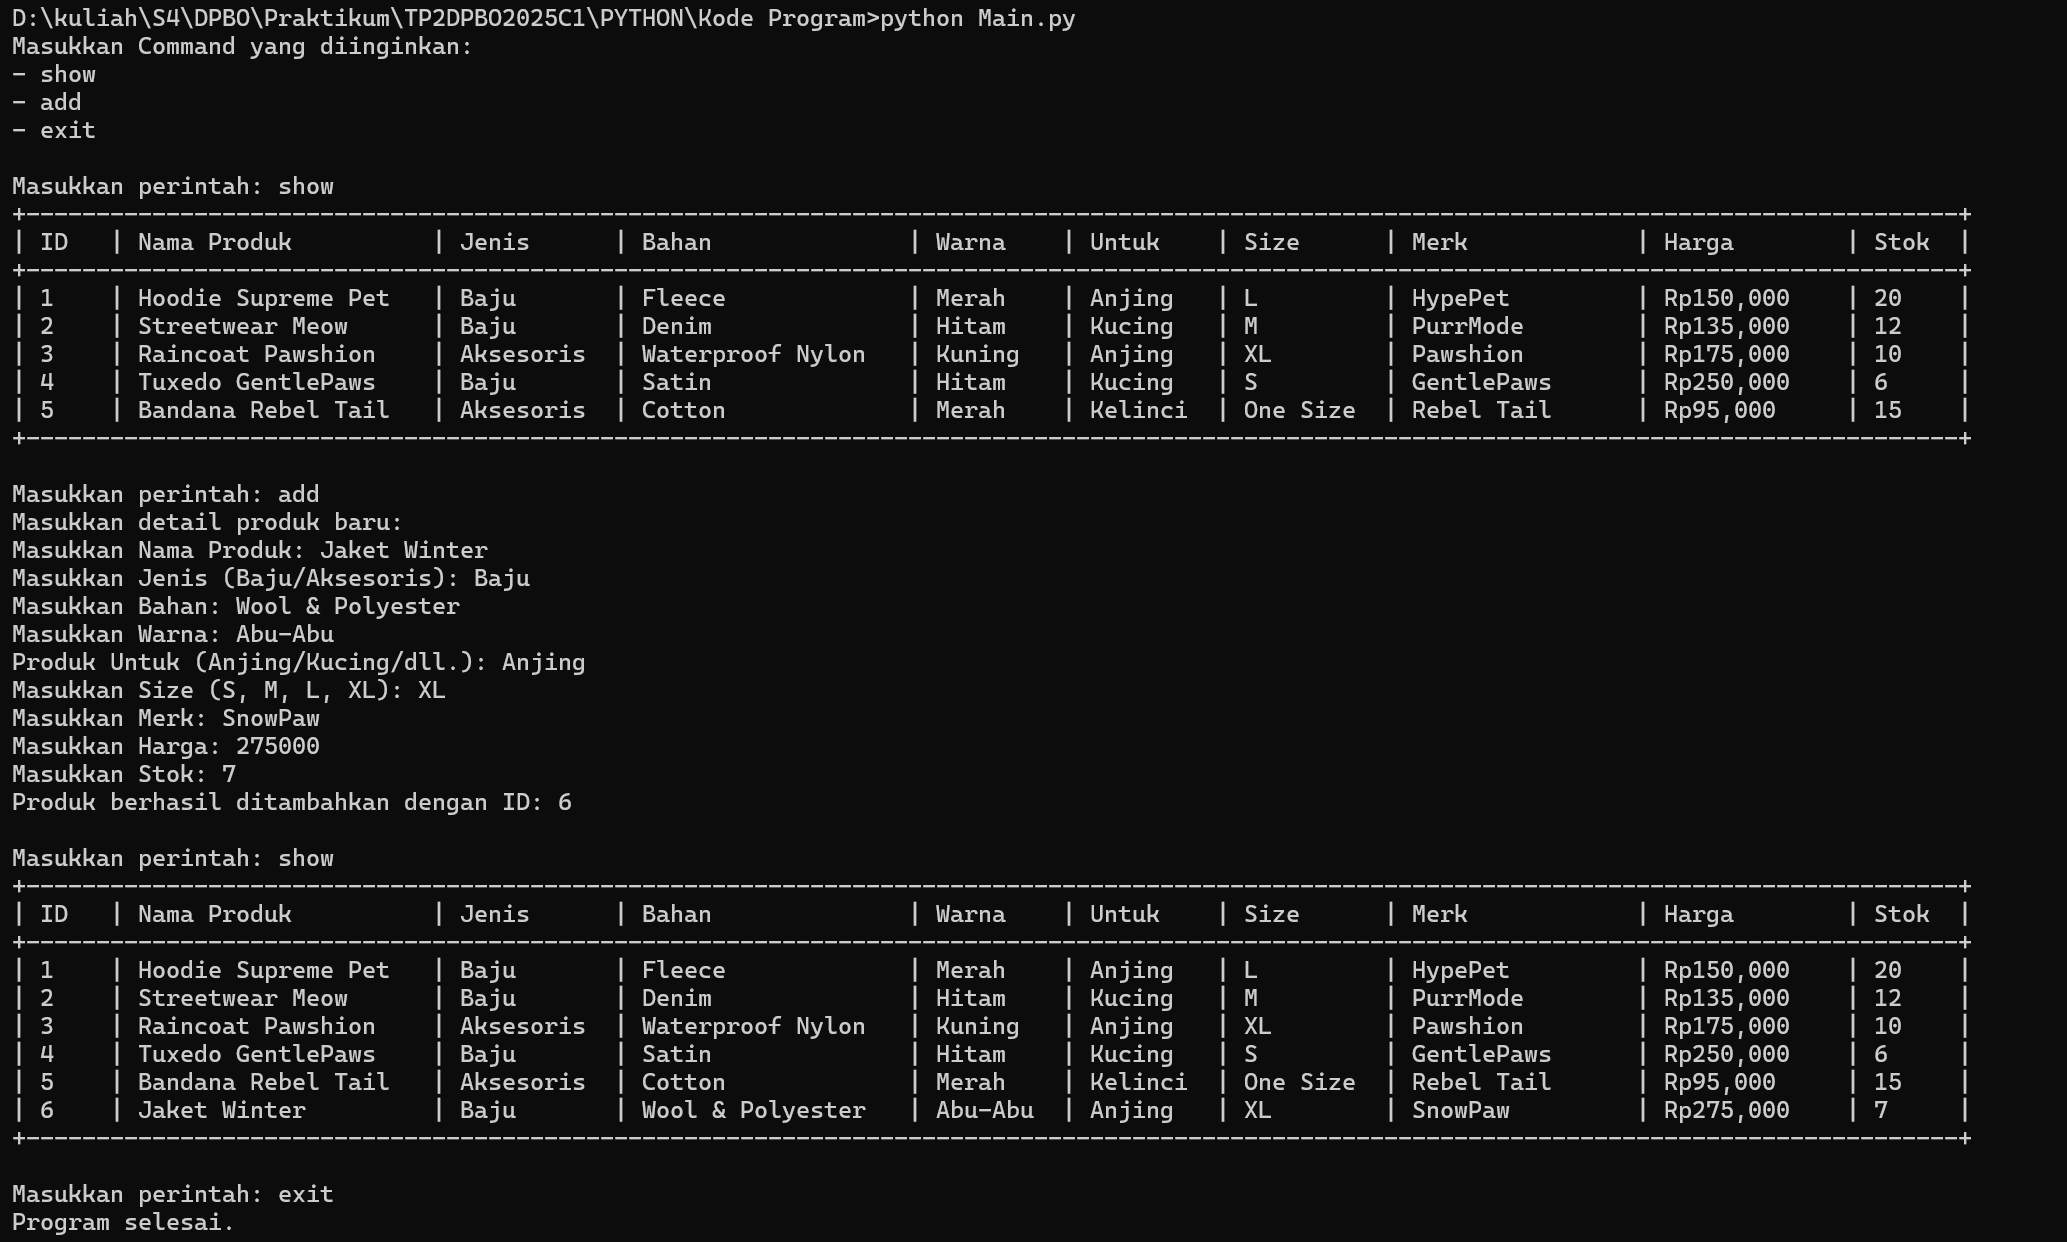
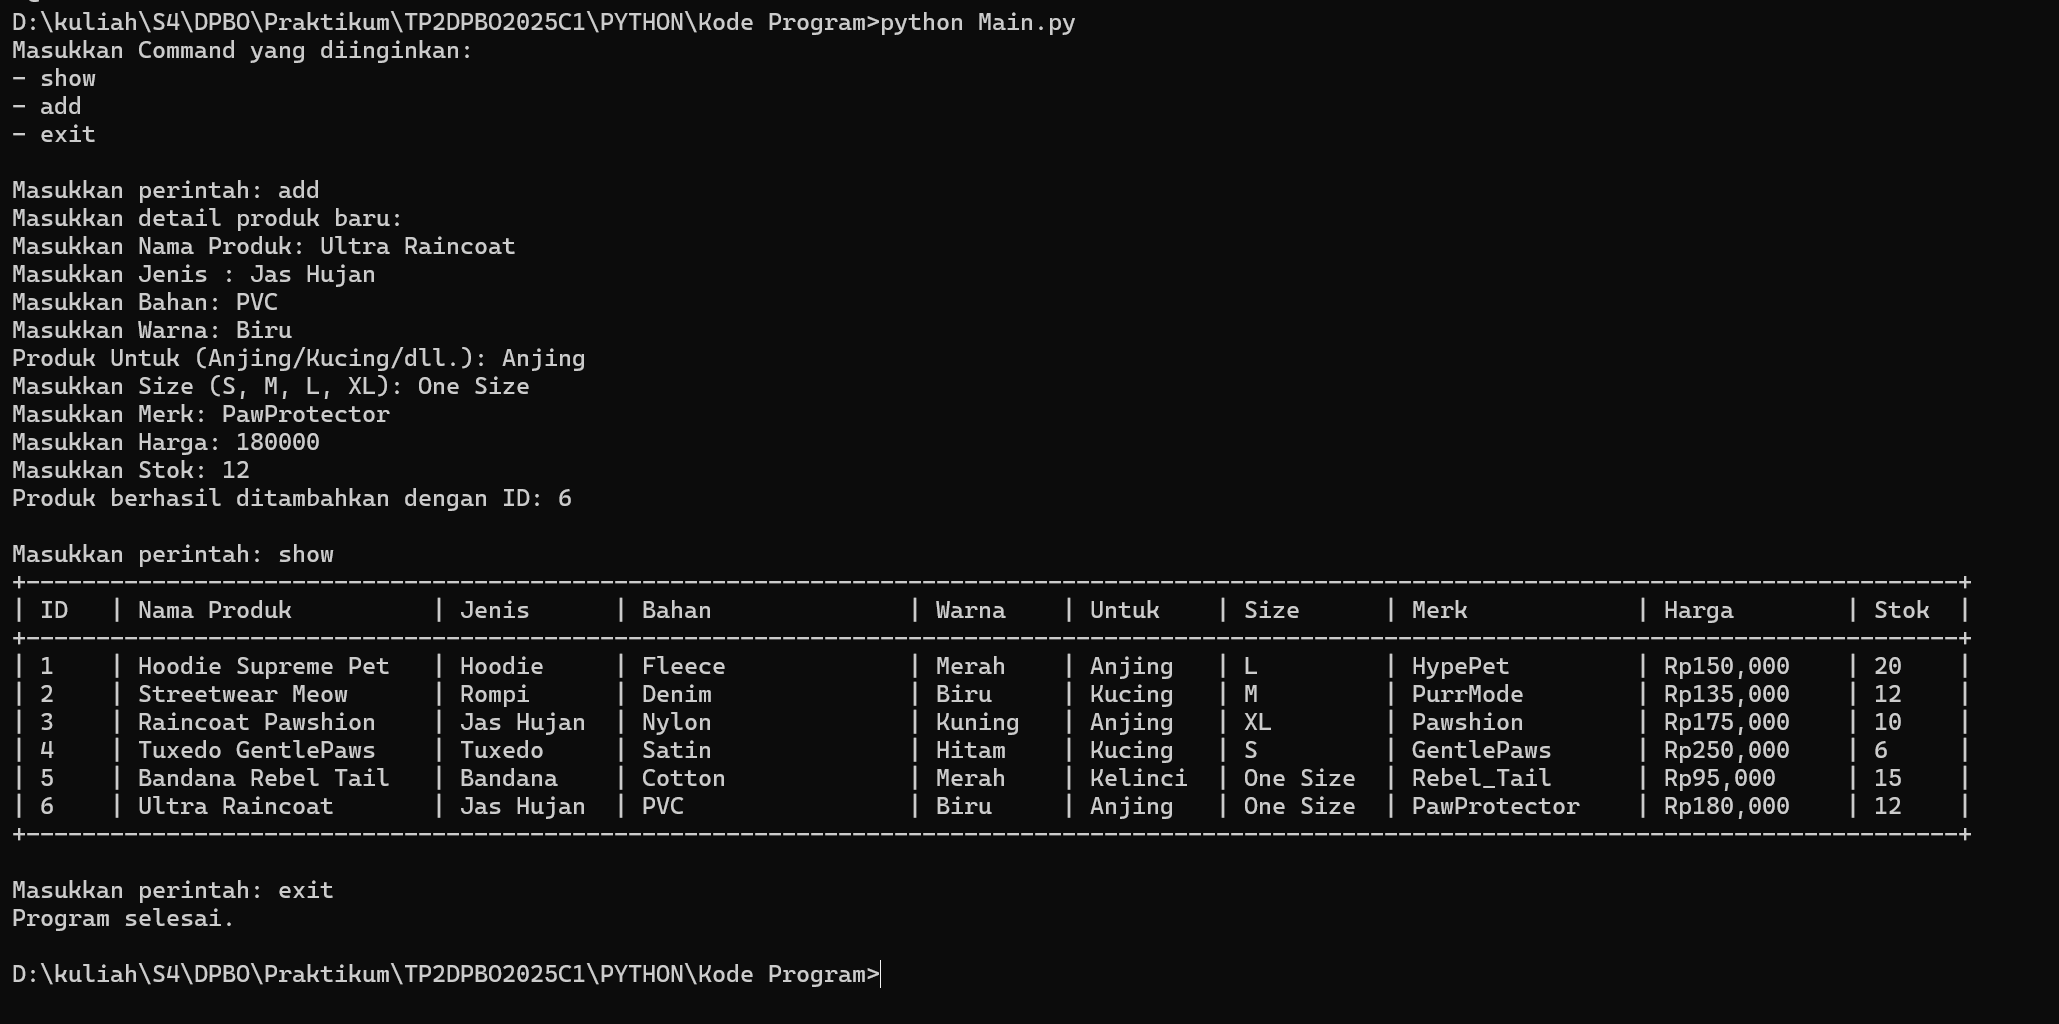
update

diff --git a/PHP/Kode Program/Main.php b/PHP/Kode Program/Main.php
@@ -1,0 +1,81 @@
+<?php
+require_once "Baju.php";
+
+// Fungsi untuk menampilkan data dalam tabel HTML
+function printTable($data) {
+    if (empty($data)) {
+        echo "<p>Tidak ada produk yang tersedia.</p>";
+        return;
+    }
+
+    echo '<table border="1" cellspacing="0" cellpadding="8" style="border-collapse: collapse; width: 100%; text-align: center;">';
+    echo '<tr style="background-color: #f2f2f2;">
+            <th>ID</th>
+            <th>Nama Produk</th>
+            <th>Jenis</th>
+            <th>Bahan</th>
+            <th>Warna</th>
+            <th>Untuk</th>
+            <th>Size</th>
+            <th>Merk</th>
+            <th>Harga</th>
+            <th>Stok</th>
+            <th>Foto Produk</th>
+          </tr>';
+
+    foreach ($data as $item) {
+        echo '<tr>
+                <td>' . $item->get_id() . '</td>
+                <td>' . $item->get_nama_produk() . '</td>
+                <td>' . $item->get_jenis() . '</td>
+                <td>' . $item->get_bahan() . '</td>
+                <td>' . $item->get_warna() . '</td>
+                <td>' . $item->get_untuk() . '</td>
+                <td>' . $item->get_size() . '</td>
+                <td>' . $item->get_merk() . '</td>
+                <td>Rp' . number_format($item->get_harga_produk(), 0, ',', '.') . '</td>
+                <td>' . $item->get_stok_produk() . '</td>
+                <td><img src="img/' . $item->get_foto_produk() . '" width="50" onerror="this.src=\'img/default.png\';"></td>
+              </tr>';
+    }
+
+    echo '</table>';
+}
+
+// Fungsi untuk menambahkan produk baru
+function addProduct(&$data, $new_id, $nama, $jenis, $bahan, $warna, $untuk, $size, $merk, $harga, $stok, $foto_produk) {
+    $new_product = new Baju($new_id, $nama, $harga, $stok, $foto_produk, $jenis, $bahan, $warna, $untuk, $size, $merk);
+    $data[] = $new_product;
+    echo "<p style='color: green;'>Produk berhasil ditambahkan dengan ID: " . $new_id . "</p>";
+}
+
+// Main program
+function main() {
+    // Inisialisasi data produk
+    $data = [
+        new Baju(1, "Hoodie Supreme Pet", 150000, 20, "hoodie_supreme_pet.jpeg", "Hoodie", "Fleece", "Merah", "Anjing", "L", "HypePet"),
+        new Baju(2, "Streetwear Meow", 135000, 12, "streetwear_meow.jpeg", "Rompi", "Denim", "Biru", "Kucing", "M", "PurrMode"),
+        new Baju(3, "Raincoat Pawshion", 175000, 10, "raincoat.jpg", "Jas Hujan", "Nylon", "Kuning", "Anjing", "XL", "Pawshion"),
+        new Baju(4, "Tuxedo GentlePaws", 250000, 6, "tuxedo.jpg", "Tuxedo", "Satin", "Hitam", "Kucing", "S", "GentlePaws"),
+        new Baju(5, "Bandana Rebel Tail", 95000, 15, "bandana.webp", "Bandana", "Cotton", "Merah", "Kelinci", "One Size", "Rebel_Tail")
+    ];
+    
+    // Action 'show' - menampilkan tabel produk
+    echo "<h2>Daftar Produk:</h2>";
+    printTable($data);
+    
+    $last_id = count($data);  // ID terakhir berdasarkan jumlah data produk
+    
+    // Menambahkan produk baru (dengan data yang diberikan)
+    $last_id++; // Menambahkan 1 untuk ID baru
+    addProduct($data, $last_id, "Ultra Raincoat", "Jas Hujan", "PVC", "Biru", "Anjing", "One Size", "PawProtector", 180000, 12, "ultra_raincoat.jpeg");
+
+    // Menampilkan tabel setelah penambahan produk
+    echo "<h2>Daftar Produk Setelah Penambahan:</h2>";
+    printTable($data);
+
+}
+
+// Jalankan fungsi utama
+main();
+?>

diff --git a/JAVA/Kode Program/Main.java b/JAVA/Kode Program/Main.java
@@ -31,11 +31,11 @@ public class Main {
         Scanner scanner = new Scanner(System.in);
 
         // Menambahkan 5 produk awal ke dalam list
-        data.add(new Baju(1, "Hoodie Supreme Pet", 150000, 20, "Baju", "Fleece", "Merah", "Anjing", "L", "HypePet"));
-        data.add(new Baju(2, "Streetwear Meow", 135000, 12, "Baju", "Denim", "Hitam", "Kucing", "M", "PurrMode"));
-        data.add(new Baju(3, "Raincoat Pawshion", 175000, 10, "Aksesoris", "Waterproof Nylon", "Kuning", "Anjing", "XL", "Pawshion"));
-        data.add(new Baju(4, "Tuxedo GentlePaws", 250000, 6, "Baju", "Satin", "Hitam", "Kucing", "S", "GentlePaws"));
-        data.add(new Baju(5, "Bandana Rebel Tail", 95000, 15, "Aksesoris", "Cotton", "Merah", "Kelinci", "One Size", "Rebel Tail"));
+        data.add(new Baju(1, "Hoodie Supreme Pet", 150000, 20, "Hoodie", "Fleece", "Merah", "Anjing", "L", "HypePet"));
+        data.add(new Baju(2, "Streetwear Meow", 135000, 12, "Rompi", "Denim", "Biru", "Kucing", "M", "PurrMode"));
+        data.add(new Baju(3, "Raincoat Pawshion", 175000, 10, "Jas Hujan", "Nylon", "Kuning", "Anjing", "XL", "Pawshion"));
+        data.add(new Baju(4, "Tuxedo GentlePaws", 250000, 6, "Tuxedo", "Satin", "Hitam", "Kucing", "S", "GentlePaws"));
+        data.add(new Baju(5, "Bandana Rebel Tail", 95000, 15, "Bandana", "Cotton", "Merah", "Kelinci", "One Size", "Rebel_Tail"));
 
         int last_id = 5;
         String command;
@@ -52,7 +52,7 @@ public class Main {
                 System.out.print("Masukkan Nama Produk: ");
                 String nama = scanner.nextLine();
 
-                System.out.print("Masukkan Jenis (Baju/Aksesoris): ");
+                System.out.print("Masukkan Jenis: ");
                 String jenis = scanner.nextLine();
 
                 System.out.print("Masukkan Bahan: ");

diff --git a/PYTHON/Kode Program/Main.py b/PYTHON/Kode Program/Main.py
@@ -24,11 +24,12 @@ def main():
     data = []
 
     # Menambahkan 5 produk awal ke dalam list
-    data.append(Baju(1, "Hoodie Supreme Pet", 150000, 20, "Baju", "Fleece", "Merah", "Anjing", "L", "HypePet"))
-    data.append(Baju(2, "Streetwear Meow", 135000, 12, "Baju", "Denim", "Hitam", "Kucing", "M", "PurrMode"))
-    data.append(Baju(3, "Raincoat Pawshion", 175000, 10, "Aksesoris", "Waterproof Nylon", "Kuning", "Anjing", "XL", "Pawshion"))
-    data.append(Baju(4, "Tuxedo GentlePaws", 250000, 6, "Baju", "Satin", "Hitam", "Kucing", "S", "GentlePaws"))
-    data.append(Baju(5, "Bandana Rebel Tail", 95000, 15, "Aksesoris", "Cotton", "Merah", "Kelinci", "One Size", "Rebel Tail"))
+    data.append(Baju(1, "Hoodie Supreme Pet", 150000, 20, "Hoodie", "Fleece", "Merah", "Anjing", "L", "HypePet"))
+    data.append(Baju(2, "Streetwear Meow", 135000, 12, "Rompi", "Denim", "Biru", "Kucing", "M", "PurrMode"))
+    data.append(Baju(3, "Raincoat Pawshion", 175000, 10, "Jas Hujan", "Nylon", "Kuning", "Anjing", "XL", "Pawshion"))
+    data.append(Baju(4, "Tuxedo GentlePaws", 250000, 6, "Tuxedo", "Satin", "Hitam", "Kucing", "S", "GentlePaws"))
+    data.append(Baju(5, "Bandana Rebel Tail", 95000, 15, "Bandana", "Cotton", "Merah", "Kelinci", "One Size", "Rebel_Tail"))
+
 
     last_id = 5
     print("Masukkan Command yang diinginkan:\n- show\n- add\n- exit")
@@ -40,7 +41,7 @@ def main():
             print("Masukkan detail produk baru:")
 
             nama = input("Masukkan Nama Produk: ").strip()
-            jenis = input("Masukkan Jenis (Baju/Aksesoris): ").strip()
+            jenis = input("Masukkan Jenis : ").strip()
             bahan = input("Masukkan Bahan: ").strip()
             warna = input("Masukkan Warna: ").strip()
             untuk = input("Produk Untuk (Anjing/Kucing/dll.): ").strip()

diff --git a/CPP/Kode Program/Main.cpp b/CPP/Kode Program/Main.cpp
@@ -46,11 +46,11 @@ int main() {
     list<Baju> data;
 
     // Menambahkan 5 produk awal ke dalam list
-    data.push_back(Baju(1, "Hoodie Supreme Pet", 150000, 20, "Baju", "Fleece", "Merah", "Anjing", "L", "HypePet"));
-    data.push_back(Baju(2, "Streetwear Meow", 135000, 12, "Baju", "Denim", "Hitam", "Kucing", "M", "PurrMode"));
-    data.push_back(Baju(3, "Raincoat Pawshion", 175000, 10, "Aksesoris", "Waterproof Nylon", "Kuning", "Anjing", "XL", "Pawshion"));
-    data.push_back(Baju(4, "Tuxedo GentlePaws", 250000, 6, "Baju", "Satin", "Hitam", "Kucing", "S", "GentlePaws"));
-    data.push_back(Baju(5, "Bandana Rebel Tail", 95000, 15, "Aksesoris", "Cotton", "Merah", "Kelinci", "One Size", "Rebel Tail"));
+    data.push_back(Baju(1, "Hoodie Supreme Pet", 150000, 20, "Hoodie", "Fleece", "Merah", "Anjing", "L", "HypePet"));
+    data.push_back(Baju(2, "Streetwear Meow", 135000, 12, "Rompi", "Denim", "Biru", "Kucing", "M", "PurrMode"));
+    data.push_back(Baju(3, "Raincoat Pawshion", 175000, 10, "Jas Hujan", "Nylon", "Kuning", "Anjing", "XL", "Pawshion"));
+    data.push_back(Baju(4, "Tuxedo GentlePaws", 250000, 6, "Tuxedo", "Satin", "Hitam", "Kucing", "S", "GentlePaws"));
+    data.push_back(Baju(5, "Bandana Rebel Tail", 95000, 15, "Bandana", "Cotton", "Merah", "Kelinci", "One Size", "Rebel_Tail"));
 
     int last_id = 5;
     string command;
@@ -70,7 +70,7 @@ int main() {
             cin.ignore();
             getline(cin, nama);
 
-            cout << "Masukan Jenis (Baju/Aksesoris): ";
+            cout << "Masukan Jenis: ";
             cin >> jenis;
 
             cout << "Masukan Bahan: ";

diff --git a/PHP/Kode Program/PetShop.php b/PHP/Kode Program/PetShop.php
@@ -1,0 +1,60 @@
+<?php
+class PetShop {
+    private $id;
+    private $nama_produk;
+    private $harga_produk;
+    private $stok_produk;
+    private $foto_produk;
+
+    // Konstruktor
+    public function __construct($id = 0, $nama_produk = "", $harga_produk = 0, $stok_produk = 0, $foto_produk = "") {
+        $this->id = $id;
+        $this->nama_produk = $nama_produk;
+        $this->harga_produk = $harga_produk;
+        $this->stok_produk = $stok_produk;
+        $this->foto_produk = $foto_produk;
+    }
+
+    // Setter methods
+    public function set_id($id) {
+        $this->id = $id;
+    }
+
+    public function set_nama_produk($nama_produk) {
+        $this->nama_produk = $nama_produk;
+    }
+
+    public function set_harga_produk($harga_produk) {
+        $this->harga_produk = $harga_produk;
+    }
+
+    public function set_stok_produk($stok_produk) {
+        $this->stok_produk = $stok_produk;
+    }
+
+    public function set_foto_produk($foto_produk) {
+        $this->foto_produk = $foto_produk;
+    }
+
+    // Getter methods
+    public function get_id() {
+        return $this->id;
+    }
+
+    public function get_nama_produk() {
+        return $this->nama_produk;
+    }
+
+    public function get_harga_produk() {
+        return $this->harga_produk;
+    }
+
+    public function get_stok_produk() {
+        return $this->stok_produk;
+    }
+
+    public function get_foto_produk() {
+        return $this->foto_produk;
+    }
+}
+?>

diff --git a/PHP/Kode Program/Baju.php b/PHP/Kode Program/Baju.php
@@ -1,0 +1,43 @@
+<?php
+require_once "Aksesoris.php";
+
+class Baju extends Aksesoris {
+    private $untuk;
+    private $size;
+    private $merk;
+
+    // Konstruktor
+    public function __construct($id = 0, $nama_produk = "", $harga_produk = 0, $stok_produk = 0, $foto_produk = "", $jenis = "", $bahan = "", $warna = "", $untuk = "", $size = "", $merk = "") {
+        parent::__construct($id, $nama_produk, $harga_produk, $stok_produk, $foto_produk, $jenis, $bahan, $warna);
+        $this->untuk = $untuk;
+        $this->size = $size;
+        $this->merk = $merk;
+    }
+
+    // Setter methods
+    public function set_untuk($untuk) {
+        $this->untuk = $untuk;
+    }
+
+    public function set_size($size) {
+        $this->size = $size;
+    }
+
+    public function set_merk($merk) {
+        $this->merk = $merk;
+    }
+
+    // Getter methods
+    public function get_untuk() {
+        return $this->untuk;
+    }
+
+    public function get_size() {
+        return $this->size;
+    }
+
+    public function get_merk() {
+        return $this->merk;
+    }
+}
+?>

diff --git a/PHP/Kode Program/Aksesoris.php b/PHP/Kode Program/Aksesoris.php
@@ -1,0 +1,43 @@
+<?php
+require_once "PetShop.php";
+
+class Aksesoris extends PetShop {
+    private $jenis;
+    private $bahan;
+    private $warna;
+
+    // Konstruktor
+    public function __construct($id = 0, $nama_produk = "", $harga_produk = 0, $stok_produk = 0, $foto_produk = "", $jenis = "", $bahan = "", $warna = "") {
+        parent::__construct($id, $nama_produk, $harga_produk, $stok_produk, $foto_produk);
+        $this->jenis = $jenis;
+        $this->bahan = $bahan;
+        $this->warna = $warna;
+    }
+
+    // Setter methods
+    public function set_jenis($jenis) {
+        $this->jenis = $jenis;
+    }
+
+    public function set_bahan($bahan) {
+        $this->bahan = $bahan;
+    }
+
+    public function set_warna($warna) {
+        $this->warna = $warna;
+    }
+
+    // Getter methods
+    public function get_jenis() {
+        return $this->jenis;
+    }
+
+    public function get_bahan() {
+        return $this->bahan;
+    }
+
+    public function get_warna() {
+        return $this->warna;
+    }
+}
+?>
